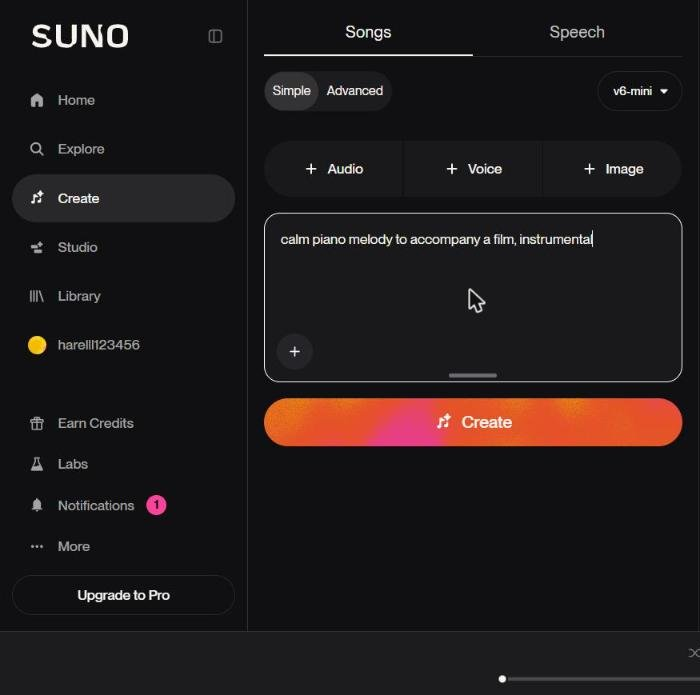
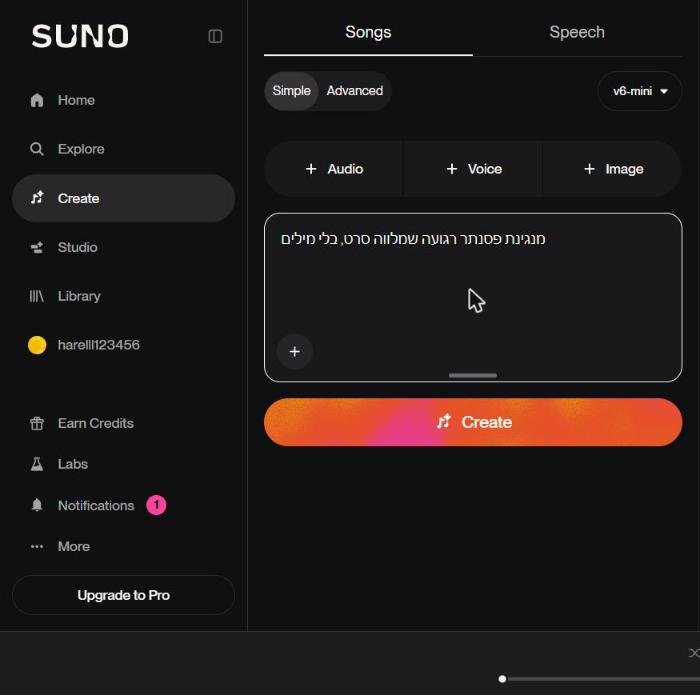
Prompt examples in Hebrew (new screenshots)

Changed region(s): [[0.39, 0.3324, 0.87, 0.3626], [0.09, 0.0302, 0.15, 0.0604]]

diff --git a/lessons/suno3.html b/lessons/suno3.html
@@ -63,7 +63,7 @@
 
   <section class="step">
     <div class="step-head"><span class="step-num">4</span><h3>מילים, סגנון ו-Create</h3></div>
-    <p>כותבים מילים (אפשר גם לא), בוחרים סגנון באנגלית, ולוחצים <span class="en">Create</span>.</p>
+    <p>כותבים מילים (אפשר גם לא), בוחרים סגנון, ולוחצים <span class="en">Create</span>.</p>
     <figure class="real" data-shot="covered2" data-marks="coverLyrics:6,coverCreate:7" aria-label="תיבת Lyrics והכפתור Create מסומנים"></figure>
   </section>
 
@@ -90,7 +90,7 @@
 
   <section class="step">
     <div class="step-head"><span class="step-num">2</span><h3>מתארים את המנגינה, בלי מילים</h3></div>
-    <p>בתיבה כותבים באנגלית איזו מנגינה רוצים, למשל <span class="en">calm piano melody to accompany a film, instrumental</span>. המילה <span class="en">instrumental</span> אומרת בלי מילים.</p>
+    <p>בתיבה כותבים איזו מנגינה רוצים, למשל <b>מנגינת פסנתר רגועה שמלווה סרט, בלי מילים</b>. הביטוי "בלי מילים" אומר שאין שירה.</p>
     <figure class="real" data-shot="simple" data-marks="descBox:2" aria-label="תיבת התיאור מסומנת"></figure>
   </section>
 

diff --git a/assets/shots2.js b/assets/shots2.js
@@ -20,7 +20,7 @@
     fullSong:     ["dialog", 48, 298, 106, 28],
     continueBtn:  ["dialog", 216, 536, 286, 56],
     lyricsBox:    ["lyrics", 264, 137, 403, 413],
-    stylesBox:    ["style", 264, 287, 403, 233],
+    stylesBox:    ["style", 264, 201, 403, 232],
     createBtn:    ["style", 328, 567, 354, 48],
     remixItem:    ["remix", 204, 91, 158, 42],
     coverItem:    ["remix", 10, 93, 188, 30],
@@ -38,7 +38,7 @@
       { mark: "fullSong",    cap: "בוחרים Full Song", click: true },
       { mark: "continueBtn", cap: "לוחצים Continue", click: true },
       { mark: "lyricsBox",   cap: "כותבים מילים חדשות לשיר" },
-      { mark: "stylesBox",   cap: "כותבים סגנון באנגלית" },
+      { mark: "stylesBox",   cap: "כותבים את הסגנון, למשל: פופ שמח, מקהלת ילדים" },
       { mark: "createBtn",   cap: "לוחצים Create", click: true }
     ],
     B: [

diff --git a/lessons/suno2.html b/lessons/suno2.html
@@ -92,7 +92,7 @@
 
   <section class="step" id="s6">
     <div class="step-head"><span class="step-num">7</span><h3>סגנון ו-Create</h3></div>
-    <p>בתיבת <span class="en">Styles</span> כותבים סגנון באנגלית, למשל <span class="en">happy pop, kids choir</span>. אחר כך לוחצים <span class="en">Create</span>.</p>
+    <p>בתיבת <span class="en">Styles</span> כותבים סגנון, למשל <b>פופ שמח, מקהלת ילדים</b>. אחר כך לוחצים <span class="en">Create</span>.</p>
     <figure class="real" data-shot="style" data-marks="stylesBox:8,createBtn:9" aria-label="תיבת Styles וכפתור Create מסומנים"></figure>
   </section>
 

diff --git a/assets/shots3.js b/assets/shots3.js
@@ -39,7 +39,7 @@
     ],
     B: [
       { mark: "simpleTab",    cap: "לוחצים על Simple", click: true },
-      { mark: "descBox",      cap: "כותבים באנגלית איזו מנגינה רוצים, בלי מילים" },
+      { mark: "descBox",      cap: "כותבים איזו מנגינה רוצים, בלי מילים" },
       { mark: "createSimple", cap: "לוחצים Create", click: true }
     ],
     C: [
